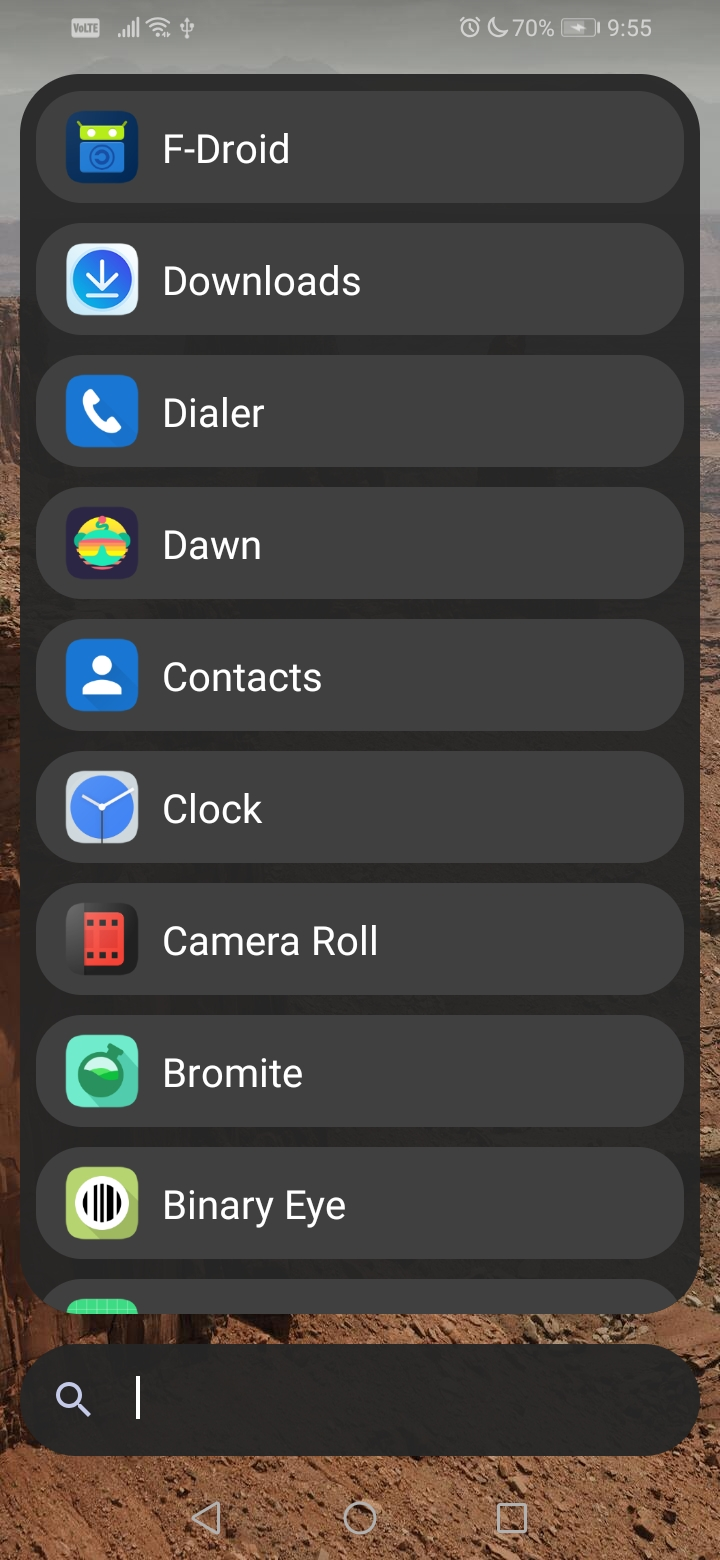
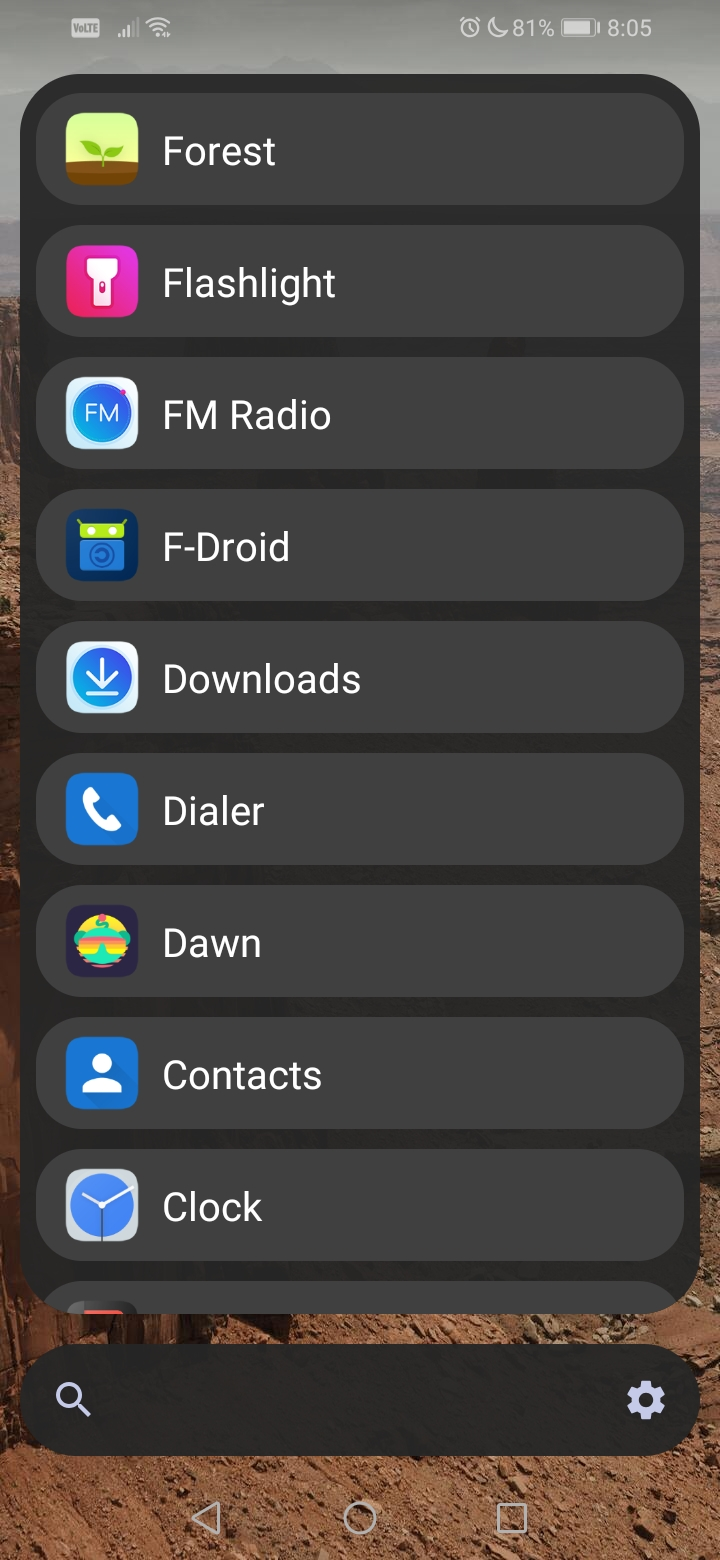
Options menu, settings button and bug fix

diff --git a/app/src/main/java/com/ahmetardakavakci/launchimo/MainActivity.kt b/app/src/main/java/com/ahmetardakavakci/launchimo/MainActivity.kt
@@ -6,12 +6,13 @@ import android.content.SharedPreferences
 import android.content.pm.PackageManager
 import android.content.pm.ResolveInfo
 import android.graphics.drawable.Drawable
+import android.net.Uri
 import android.os.Bundle
+import android.provider.Settings
 import android.view.Window
 import androidx.activity.ComponentActivity
 import androidx.activity.compose.setContent
-import androidx.compose.foundation.Image
-import androidx.compose.foundation.clickable
+import androidx.compose.foundation.*
 import androidx.compose.foundation.layout.*
 import androidx.compose.foundation.lazy.LazyColumn
 import androidx.compose.foundation.shape.RoundedCornerShape
@@ -19,9 +20,11 @@ import androidx.compose.material.*
 import androidx.compose.material.icons.Icons
 import androidx.compose.material.icons.filled.Clear
 import androidx.compose.material.icons.filled.Search
+import androidx.compose.material.icons.filled.Settings
 import androidx.compose.runtime.*
 import androidx.compose.ui.Alignment
 import androidx.compose.ui.Modifier
+import androidx.compose.ui.draw.alpha
 import androidx.compose.ui.draw.clip
 import androidx.compose.ui.graphics.Color
 import androidx.compose.ui.platform.LocalContext
@@ -29,12 +32,15 @@ import androidx.compose.ui.text.input.TextFieldValue
 import androidx.compose.ui.tooling.preview.Preview
 import androidx.compose.ui.unit.dp
 import androidx.compose.ui.unit.sp
+import androidx.core.content.ContextCompat
 import androidx.navigation.NavHostController
 import androidx.navigation.compose.NavHost
 import androidx.navigation.compose.composable
 import androidx.navigation.compose.rememberNavController
 import com.ahmetardakavakci.launchimo.ui.theme.LaunchimoTheme
 import com.google.accompanist.drawablepainter.rememberDrawablePainter
+import com.google.accompanist.insets.LocalWindowInsets
+import com.google.accompanist.insets.rememberInsetsPaddingValues
 import java.util.*
 
 private lateinit var pm: PackageManager
@@ -45,12 +51,14 @@ private lateinit var appsListUnsorted: ArrayList<App>
 private lateinit var allApps: List<ResolveInfo>
 
 // Colors and shapes
+var settingsAlpha: Float = 0f
 val rounded = RoundedCornerShape(30.dp)
 var colorBackground = Color(0xF2262626)
 var colorItemBackground = Color(0xFF404040)
 var textColor = Color.White
 var accentColor = Color(0xFFC5CAE9)
 private var searchbarColor = Color(0xF2262626)
+
 // Color related
 lateinit var w: Window
 
@@ -113,6 +121,7 @@ class MainActivity : ComponentActivity() {
             }
         }
     }
+
 }
 
 
@@ -120,14 +129,22 @@ class MainActivity : ComponentActivity() {
 fun MainScreen(navController: NavHostController) {
 
     checkDarkMode()
+    checkHideSettings()
 
     var searchInput by remember { mutableStateOf(TextFieldValue())}
+    var expanded by remember { mutableStateOf(false) }
 
-    Surface(
+        Surface(
         modifier = Modifier.fillMaxSize(),
         color = Color.Transparent
     ) {
-        Column {
+        Column (
+            modifier = Modifier
+                .padding(rememberInsetsPaddingValues(
+                    insets = LocalWindowInsets.current.systemBars,
+                    applyTop = true,
+                    applyBottom = true))
+            ) {
             // App list
             Surface(
                 modifier = Modifier
@@ -138,6 +155,24 @@ fun MainScreen(navController: NavHostController) {
                 ,color = colorBackground
             ) {
                 AppList(appsList, searchInput)
+            }
+
+            DropdownMenu(
+                modifier = Modifier
+                    .background(colorItemBackground)
+                ,expanded = expanded,
+                onDismissRequest = { expanded = false },
+            ) {
+                DropdownMenuItem(
+                    onClick = {
+                        expanded = !expanded
+                    }
+                ) {
+                    Text(
+                        text = "App Info",
+                        color = textColor
+                    )
+                }
             }
 
             // Searchbar
@@ -173,26 +208,41 @@ fun MainScreen(navController: NavHostController) {
                             modifier = Modifier
                                 .padding(15.dp)
                                 .size(24.dp)
-                                .clickable {
-                                    navController.navigate("settings")
-                                },
-                            tint = accentColor
+                            ,tint = accentColor
                         )
                     },
                     trailingIcon = {
                         when {
-                            searchInput.text.isNotEmpty() ->
-                                Icon(
-                                    Icons.Default.Clear,
-                                    contentDescription = "",
-                                    tint = accentColor,
-                                    modifier = Modifier
-                                        .padding(15.dp)
-                                        .size(24.dp)
-                                        .clickable {
-                                            searchInput = TextFieldValue("")
-                                        }
-                                )
+                            searchInput.text.isNotEmpty() -> {
+                                Box(modifier = Modifier.clickable {
+                                    searchInput = TextFieldValue("")
+                                }) {
+                                    Icon(
+                                        Icons.Default.Clear,
+                                        contentDescription = "",
+                                        tint = accentColor,
+                                        modifier = Modifier
+                                            .padding(15.dp)
+                                            .size(24.dp)
+                                    )
+                                }
+                            }
+
+                            else -> {
+                                Box(modifier = Modifier.clickable {
+                                    navController.navigate("settings")
+                                }) {
+                                    Icon(
+                                        Icons.Default.Settings,
+                                        contentDescription = "",
+                                        tint = accentColor,
+                                        modifier = Modifier
+                                            .padding(15.dp)
+                                            .size(24.dp)
+                                            .alpha(settingsAlpha)
+                                    )
+                                }
+                            }
                         }
                     },
                     maxLines = 1,
@@ -200,6 +250,7 @@ fun MainScreen(navController: NavHostController) {
                     onValueChange = {
                         searchInput = it
                     })
+
             }
 
         }
@@ -208,16 +259,34 @@ fun MainScreen(navController: NavHostController) {
 
 }
 
-
+@OptIn(ExperimentalFoundationApi::class)
 @Composable
-fun AppLine(context: Context, label: String, icon: Drawable, intent: Intent) {
+fun AppLine(context: Context, label: String, icon: Drawable, intent: Intent, pkgname: String) {
+
+    var expanded by remember { mutableStateOf(false) }
+
+    // Details Settings Intent
+    val toSettings = Intent(Settings.ACTION_APPLICATION_DETAILS_SETTINGS)
+    val settingsPackageUri = Uri.fromParts("package", pkgname, null)
+    toSettings.data = settingsPackageUri
+
+    // Uninstall Intent
+    val uninstallIntent = Intent(Intent.ACTION_DELETE)
+    val uninstallPackageUri = Uri.parse("package:$pkgname")
+    uninstallIntent.data = uninstallPackageUri
+
     Card(
         modifier = Modifier
             .fillMaxWidth()
-            .clickable {
-                context.startActivity(intent)
-            }
-        ,shape = RoundedCornerShape(23.dp),
+            .combinedClickable(
+                onClick = {
+                    context.startActivity(intent)
+                },
+                onLongClick = {
+                    expanded = !expanded
+                }
+            ),
+        shape = RoundedCornerShape(23.dp),
         backgroundColor = colorItemBackground,
         elevation = 0.dp,
 
@@ -243,6 +312,37 @@ fun AppLine(context: Context, label: String, icon: Drawable, intent: Intent) {
                 color = textColor,
                 fontSize = 20.sp
             )
+
+            DropdownMenu(
+                modifier = Modifier
+                    .background(colorItemBackground)
+                ,expanded = expanded,
+                onDismissRequest = { expanded = false },
+            ) {
+                DropdownMenuItem(
+                    onClick = {
+                        context.startActivity(toSettings)
+                        expanded = !expanded
+                    }
+                ) {
+                    Text(
+                        text = "App Info",
+                        color = textColor
+                    )
+                }
+
+                DropdownMenuItem(
+                    onClick = {
+                        context.startActivity(uninstallIntent)
+                        expanded = !expanded
+                    }
+                ) {
+                    Text(
+                        text = "Uninstall",
+                        color = textColor
+                    )
+                }
+            }
         }
 
     }
@@ -255,7 +355,12 @@ fun AppList(apps: List<App>, state: TextFieldValue) {
 
     // App List
     LazyColumn(
-        contentPadding = PaddingValues(start = 8.dp, end = 8.dp, top = 0.dp, bottom = 8.dp),
+        contentPadding = PaddingValues(
+            start = 8.dp,
+            end = 8.dp,
+            top = 0.dp,
+            bottom = 8.dp
+        ),
         reverseLayout = true
     ) {
 
@@ -285,7 +390,8 @@ fun AppList(apps: List<App>, state: TextFieldValue) {
                     context = context,
                     label = filteredApps[app].label,
                     icon = filteredApps[app].icon,
-                    intent = filteredApps[app].intent
+                    intent = filteredApps[app].intent,
+                    pkgname = filteredApps[app].pkgName
                 )
                 Spacer(modifier = Modifier.height(10.dp))
         })
@@ -316,10 +422,28 @@ fun checkDarkMode() {
     }
 }
 
+fun checkHideSettings() {
+    when(sharedPreferences.getBoolean("hideSettings", false)) {
+        true -> {
+            settingsAlpha = 0f
+        }
+
+        false -> {
+            settingsAlpha = 1f
+        }
+    }
+}
+
 @Preview(showBackground = true)
 @Composable
-fun DefaultPreview() {
+fun MainPreview() {
     LaunchimoTheme {
-        SettingsSwitch("Dark mode", "darkMode", remember { mutableStateOf(true) })
+        AppLine(
+            context = LocalContext.current,
+            label = "App name",
+            icon = ContextCompat.getDrawable(LocalContext.current,R.drawable.ic_launcher_foreground)!!,
+            intent = Intent(),
+            pkgname = "hello.hello.hello"
+        )
     }
 }

diff --git a/app/src/main/java/com/ahmetardakavakci/launchimo/SettingsScreen.kt b/app/src/main/java/com/ahmetardakavakci/launchimo/SettingsScreen.kt
@@ -13,9 +13,11 @@ import androidx.compose.runtime.remember
 import androidx.compose.ui.Alignment
 import androidx.compose.ui.Modifier
 import androidx.compose.ui.graphics.Color
+import androidx.compose.ui.tooling.preview.Preview
 import androidx.compose.ui.unit.dp
 import androidx.compose.ui.unit.sp
 import androidx.navigation.NavHostController
+import com.ahmetardakavakci.launchimo.ui.theme.LaunchimoTheme
 
 var thumbColor: Color = Color(0xFF2C2C2C)
 var uncheckedThumbColor: Color = Color(0xFF2C2C2C)
@@ -23,7 +25,8 @@ var uncheckedThumbColor: Color = Color(0xFF2C2C2C)
 @Composable
 fun SettingsScreen(navController: NavHostController) {
 
-    val darkMode = remember { mutableStateOf(sharedPreferences.getBoolean("darkMode", false)) }
+    val darkMode = remember { mutableStateOf(sharedPreferences.getBoolean("darkMode", true)) }
+    val hideSettings = remember { mutableStateOf(sharedPreferences.getBoolean("hideSettings", false)) }
     var settingsBackground: Color
 
     checkDarkMode()
@@ -66,6 +69,7 @@ fun SettingsScreen(navController: NavHostController) {
             }
 
             SettingsSwitch("Dark mode", "darkMode", darkMode)
+            SettingsSwitch("Transparent Settings icon", "hideSettings", hideSettings)
         }
     }
 }
@@ -105,5 +109,13 @@ fun SettingsSwitch(text: String, sharedKey: String, checkedState: MutableState<B
                 }
             )
         }
+    }
+}
+
+@Preview(showBackground = true)
+@Composable
+fun SettingsPreview() {
+    LaunchimoTheme {
+        SettingsSwitch("Dark mode", "darkMode", remember { mutableStateOf(true) })
     }
 }

diff --git a/TODO.md b/TODO.md
@@ -1,7 +1,9 @@
 # To-do
-- [ ] Fix: Layout doesn't resize itself for the keyboard on the first try
-- [ ] Add long click options menu to apps
-- [ ] White background on the settings screen initially
-- [ ] Refresh app list after an app is installed
+- [ ] Refresh app list after an app is installed 
+- [ ] Use coroutines for creating a list
+- [ ] Fix: Switches other then Dark Mode switch doesn't use current mode colors at first
+- [x] White background on the settings screen initially
+- [x] Add long click options menu to apps
+- [x] Fix: Layout doesn't resize itself for the keyboard at first (Solved thanks to [this person]( https://issuetracker.google.com/issues/192043120#comment100))
 - [x] Add "clear search bar text" button
 - [x] Add settings activity
